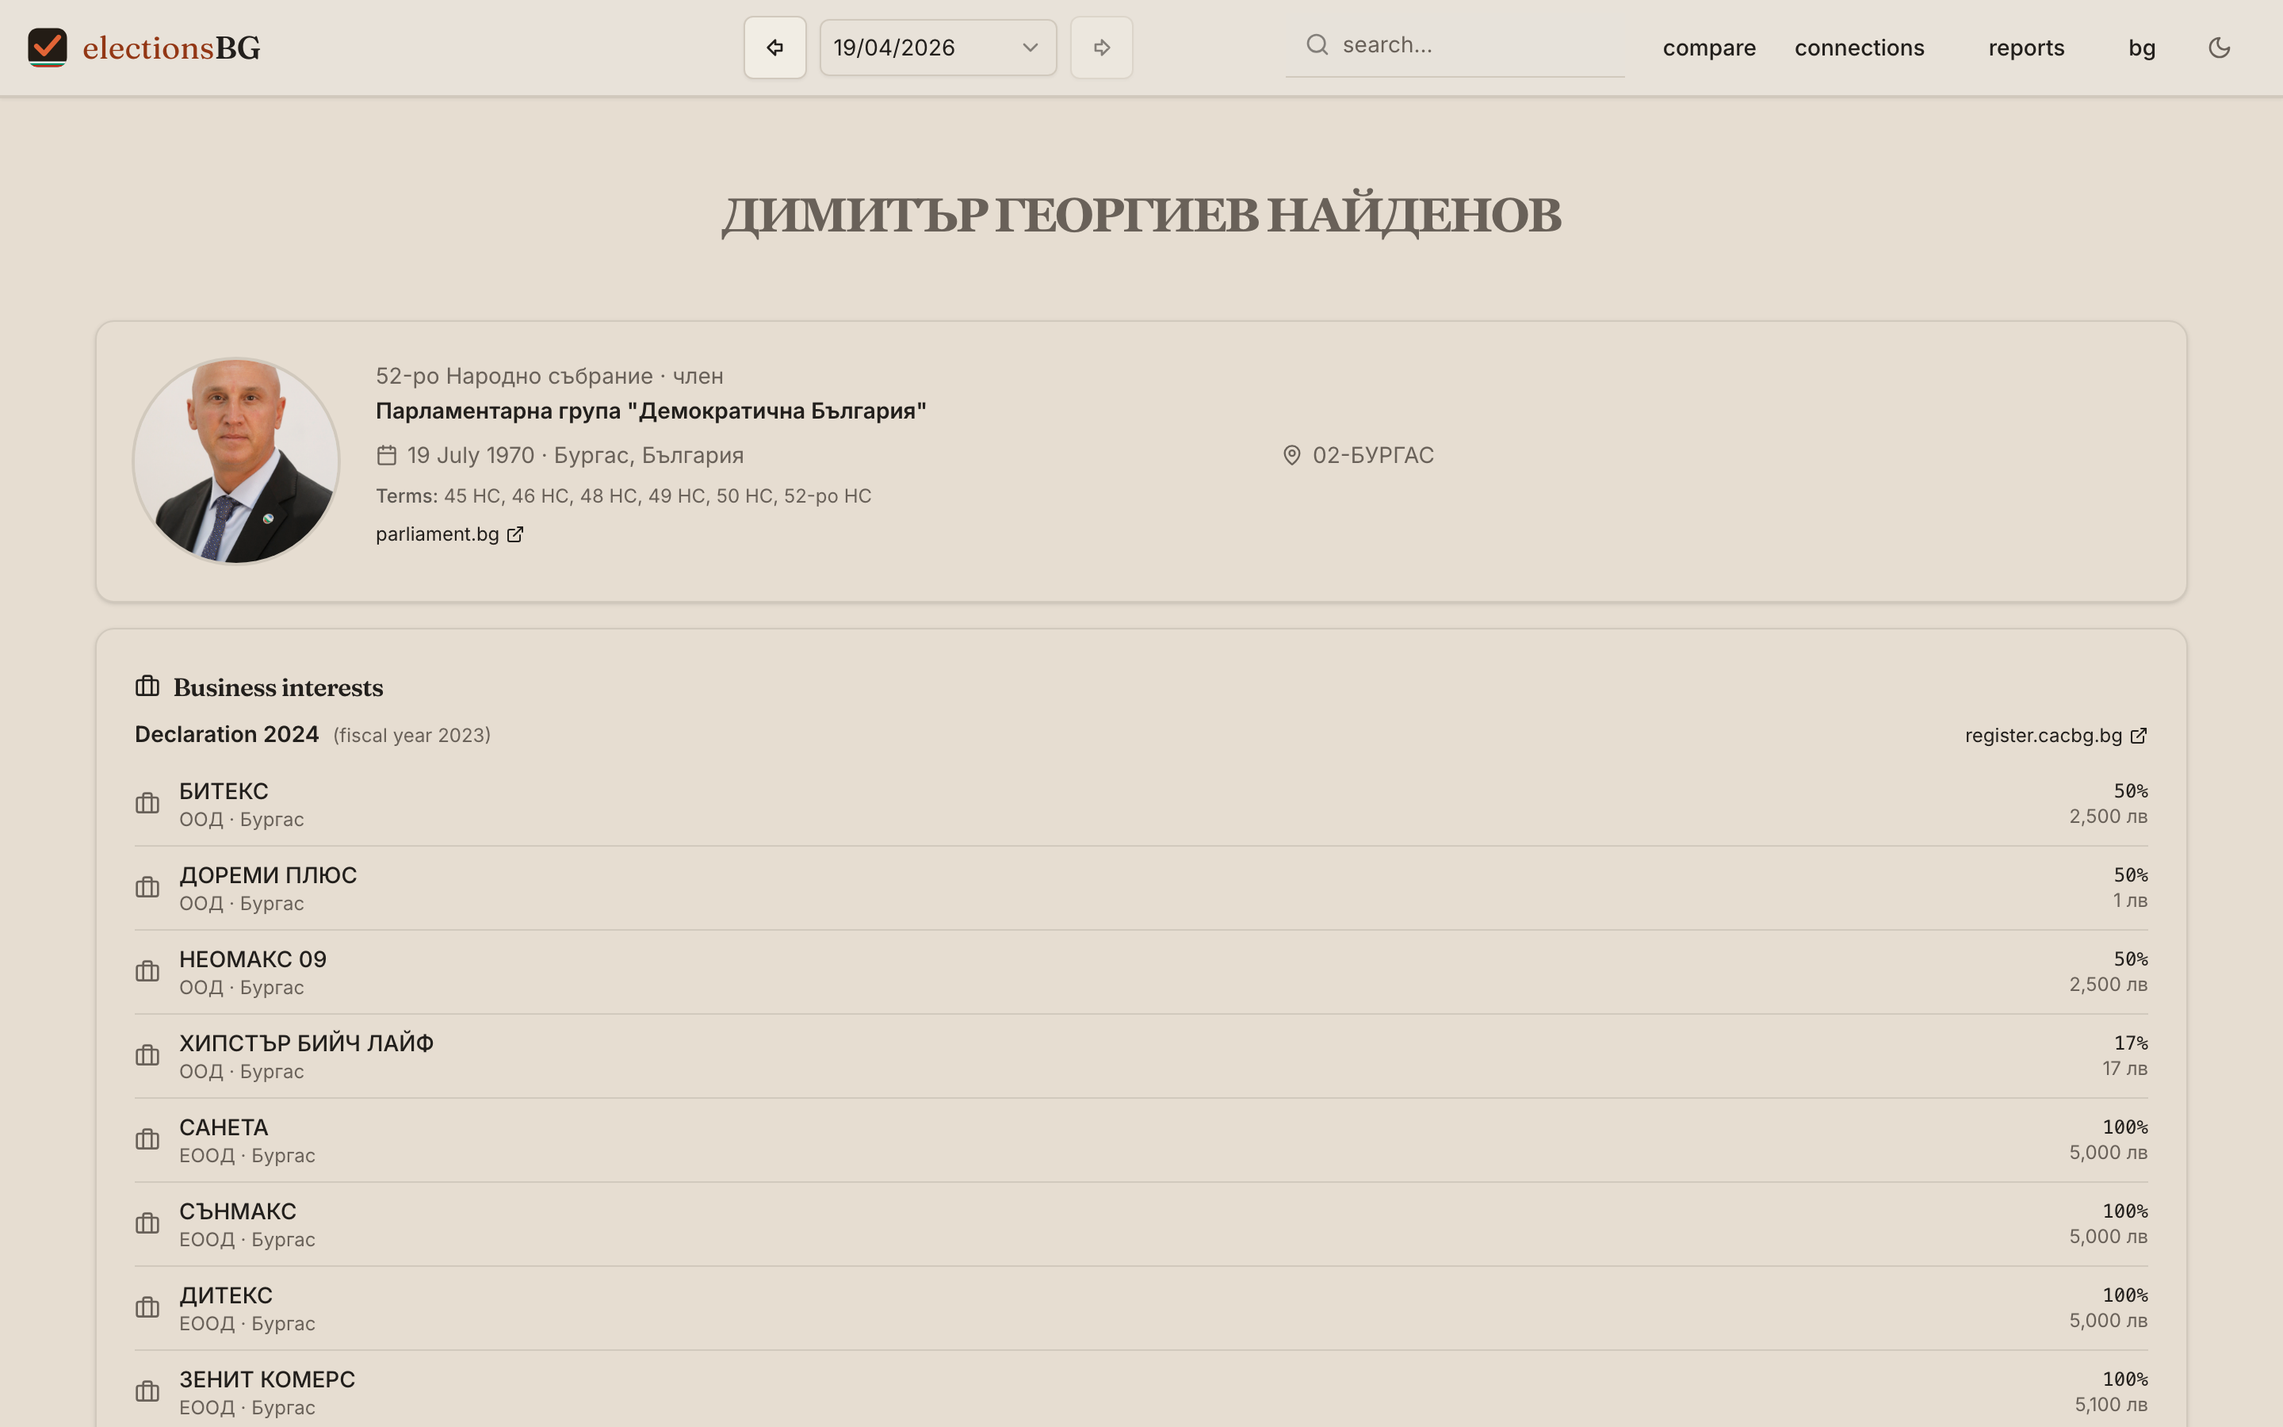
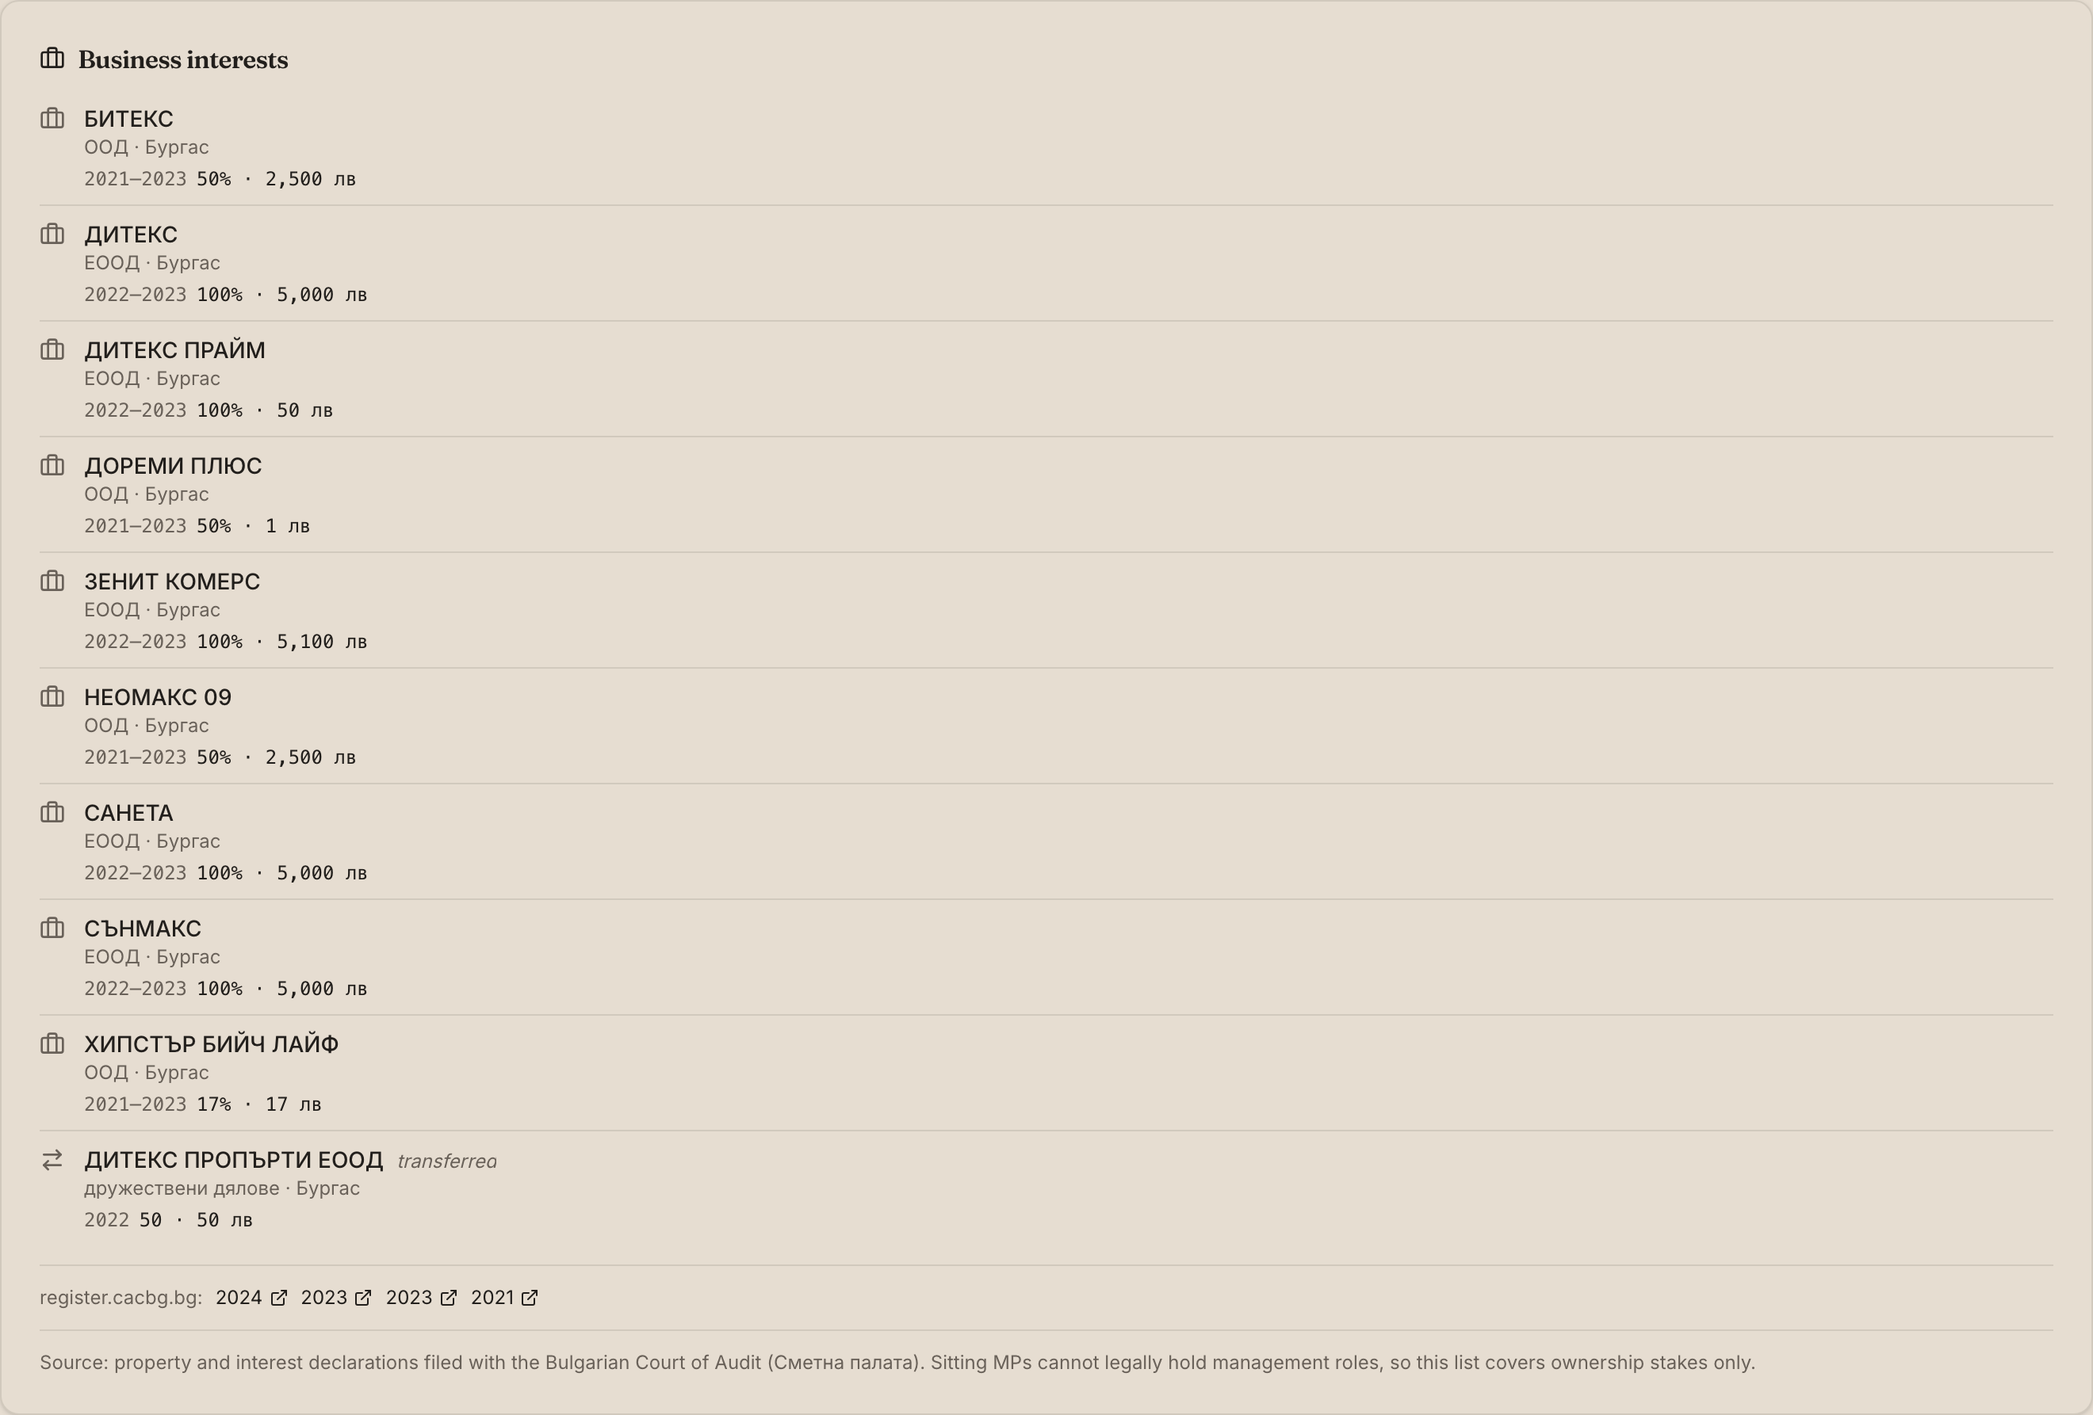
declarations: consolidate business interests by company across years
Previously the MP financial-declarations card rendered one section per
filing, repeating the same companies across 4+ declarations and producing
a 30+ row block. Now stakes are grouped by company with a year-range
timeline; runs of years with identical share/value collapse into a single
chip, and changes between years are split with an arrow so progression is
visible at a glance. Source XML links move to a compact footer.

Article prose and the candidate-declarations screenshot are updated to
match, and a stale СУНМАКС → СЪНМАКС typo in the same paragraph is fixed.

diff --git a/src/screens/components/candidates/MpFinancialDeclarations.tsx b/src/screens/components/candidates/MpFinancialDeclarations.tsx
@@ -1,4 +1,4 @@
-import { FC } from "react";
+import { FC, Fragment, useMemo } from "react";
 import { Link } from "react-router-dom";
 import { useTranslation } from "react-i18next";
 import { Briefcase, ExternalLink, ArrowRightLeft } from "lucide-react";
@@ -17,97 +17,216 @@ const formatBgn = (n: number | null, lang: string): string => {
   }
 };
 
-const StakeRow: FC<{
-  stake: MpOwnershipStake;
-  declarantName: string;
-  lang: string;
-}> = ({ stake, declarantName, lang }) => {
-  const Icon = stake.table === "11" ? ArrowRightLeft : Briefcase;
-  const slug = stake.companySlug ?? null;
-  const name = stake.companyName ?? "—";
-  const holder = stake.holderName?.trim();
-  // Show holder only when it's not the declarant (i.e. spouse / family member)
-  const heldByOther =
-    holder && holder.toLowerCase() !== declarantName.trim().toLowerCase();
+type StakeYear = {
+  year: number;
+  fromFiscal: boolean;
+  shareSize: string | null;
+  valueBgn: number | null;
+};
+
+type StakeRange = {
+  fromYear: number;
+  toYear: number;
+  fromFiscal: boolean;
+  shareSize: string | null;
+  valueBgn: number | null;
+};
+
+type ConsolidatedStake = {
+  key: string;
+  table: "10" | "11";
+  companyName: string;
+  companySlug: string | null;
+  itemType: string | null;
+  registeredOffice: string | null;
+  holderName: string | null;
+  heldByOther: boolean;
+  ranges: StakeRange[];
+  latestYear: number;
+};
+
+const yearKey = (decl: MpDeclaration): { year: number; fromFiscal: boolean } =>
+  decl.fiscalYear != null
+    ? { year: decl.fiscalYear, fromFiscal: true }
+    : { year: decl.declarationYear, fromFiscal: false };
+
+const groupKey = (s: MpOwnershipStake): string => {
+  const company = (s.companySlug ?? s.companyName ?? "").trim().toLowerCase();
+  const holder = (s.holderName ?? "").trim().toLowerCase();
+  return `${s.table}|${company}|${holder}`;
+};
+
+const collapseRanges = (entries: StakeYear[]): StakeRange[] => {
+  if (entries.length === 0) return [];
+  const sorted = [...entries].sort((a, b) => a.year - b.year);
+  const ranges: StakeRange[] = [];
+  for (const e of sorted) {
+    const last = ranges[ranges.length - 1];
+    const sameValues =
+      last &&
+      last.shareSize === e.shareSize &&
+      last.valueBgn === e.valueBgn &&
+      // only collapse contiguous or duplicate years (gaps break the range)
+      e.year - last.toYear <= 1;
+    if (sameValues) {
+      last.toYear = Math.max(last.toYear, e.year);
+    } else {
+      ranges.push({
+        fromYear: e.year,
+        toYear: e.year,
+        fromFiscal: e.fromFiscal,
+        shareSize: e.shareSize,
+        valueBgn: e.valueBgn,
+      });
+    }
+  }
+  return ranges;
+};
+
+const consolidate = (declarations: MpDeclaration[]): ConsolidatedStake[] => {
+  // Sort declarations newest first so the "most recent record per year" wins
+  // when two declarations cover the same fiscal year.
+  const decls = [...declarations].sort(
+    (a, b) => b.declarationYear - a.declarationYear,
+  );
+  const groups = new Map<
+    string,
+    {
+      stakes: Array<{
+        stake: MpOwnershipStake;
+        year: number;
+        fromFiscal: boolean;
+      }>;
+      first: MpOwnershipStake;
+    }
+  >();
+  for (const decl of decls) {
+    const { year, fromFiscal } = yearKey(decl);
+    for (const stake of decl.ownershipStakes) {
+      const k = groupKey(stake);
+      let g = groups.get(k);
+      if (!g) {
+        g = { stakes: [], first: stake };
+        groups.set(k, g);
+      }
+      g.stakes.push({ stake, year, fromFiscal });
+    }
+  }
+  const result: ConsolidatedStake[] = [];
+  for (const [key, g] of groups) {
+    // Dedupe by year — first hit wins (decls are newest-first).
+    const byYear = new Map<number, StakeYear>();
+    for (const { stake, year, fromFiscal } of g.stakes) {
+      if (byYear.has(year)) continue;
+      byYear.set(year, {
+        year,
+        fromFiscal,
+        shareSize: stake.shareSize,
+        valueBgn: stake.valueBgn,
+      });
+    }
+    const ranges = collapseRanges(Array.from(byYear.values()));
+    const declarantName = decls[0]?.declarantName ?? "";
+    const holder = g.first.holderName?.trim() ?? null;
+    const heldByOther = !!(
+      holder && holder.toLowerCase() !== declarantName.trim().toLowerCase()
+    );
+    result.push({
+      key,
+      table: g.first.table,
+      companyName: g.first.companyName ?? "—",
+      companySlug: g.first.companySlug ?? null,
+      itemType: g.first.itemType,
+      registeredOffice: g.first.registeredOffice,
+      holderName: holder,
+      heldByOther,
+      ranges,
+      latestYear: ranges.length ? ranges[ranges.length - 1].toYear : 0,
+    });
+  }
+  // Newest-active first; current holdings (table 10) above transfers (table 11).
+  return result.sort((a, b) => {
+    if (a.table !== b.table) return a.table === "10" ? -1 : 1;
+    if (b.latestYear !== a.latestYear) return b.latestYear - a.latestYear;
+    return a.companyName.localeCompare(b.companyName);
+  });
+};
+
+const RangeLabel: FC<{ r: StakeRange; lang: string }> = ({ r, lang }) => {
+  const yearLabel =
+    r.fromYear === r.toYear ? `${r.fromYear}` : `${r.fromYear}–${r.toYear}`;
+  const parts: string[] = [];
+  if (r.shareSize) parts.push(r.shareSize);
+  if (r.valueBgn != null) parts.push(`${formatBgn(r.valueBgn, lang)} лв`);
   return (
-    <div className="grid grid-cols-[auto_1fr_auto] gap-3 items-center py-2 border-b last:border-b-0">
-      <Icon className="h-4 w-4 text-muted-foreground" />
-      <div className="min-w-0">
-        <div className="text-sm font-medium truncate">
-          {slug ? (
-            <Link
-              to={`/mp/company/${encodeURIComponent(slug)}`}
-              className="hover:underline"
-            >
-              {name}
-            </Link>
-          ) : (
-            name
-          )}
-        </div>
-        <div className="text-xs text-muted-foreground truncate">
-          {[stake.itemType, stake.registeredOffice]
-            .filter(Boolean)
-            .join(" · ") || "—"}
-        </div>
-        {heldByOther && (
-          <div className="text-xs text-muted-foreground italic truncate">
-            {holder}
-          </div>
-        )}
-      </div>
-      <div className="text-right text-sm">
-        {stake.shareSize && (
-          <div className="font-mono text-xs">{stake.shareSize}</div>
-        )}
-        {stake.valueBgn != null && (
-          <div className="text-xs text-muted-foreground">
-            {formatBgn(stake.valueBgn, lang)} лв
-          </div>
-        )}
-      </div>
-    </div>
+    <span className="font-mono">
+      <span className="text-muted-foreground">{yearLabel}</span>
+      {parts.length > 0 && <span className="ml-1.5">{parts.join(" · ")}</span>}
+    </span>
   );
 };
 
-const DeclarationCard: FC<{ decl: MpDeclaration; lang: string }> = ({
-  decl,
+const StakeRow: FC<{ stake: ConsolidatedStake; lang: string }> = ({
+  stake,
   lang,
 }) => {
   const { t } = useTranslation();
-  const stakes = decl.ownershipStakes;
-  if (stakes.length === 0) return null;
+  const Icon = stake.table === "11" ? ArrowRightLeft : Briefcase;
+  const slug = stake.companySlug;
+  const subtitle = [stake.itemType, stake.registeredOffice]
+    .filter(Boolean)
+    .join(" · ");
 
   return (
-    <div className="mb-4">
-      <div className="flex items-baseline justify-between mb-2">
-        <div className="text-sm font-semibold">
-          {t("declaration_year") || "Declaration"} {decl.declarationYear}
-          {decl.fiscalYear != null && (
-            <span className="text-xs text-muted-foreground font-normal ml-2">
-              ({t("fiscal_year") || "fiscal year"} {decl.fiscalYear})
-            </span>
-          )}
+    <div className="grid grid-cols-[auto_1fr] gap-3 items-start py-2 border-b last:border-b-0">
+      <Icon className="h-4 w-4 text-muted-foreground mt-0.5" />
+      <div className="min-w-0">
+        <div className="flex items-baseline justify-between gap-3">
+          <div className="text-sm font-medium truncate">
+            {slug ? (
+              <Link
+                to={`/mp/company/${encodeURIComponent(slug)}`}
+                className="hover:underline"
+              >
+                {stake.companyName}
+              </Link>
+            ) : (
+              stake.companyName
+            )}
+            {stake.table === "11" && (
+              <span className="ml-2 text-xs font-normal text-muted-foreground italic">
+                {t("stake_transferred") || "transferred"}
+              </span>
+            )}
+          </div>
         </div>
-        <a
-          href={decl.sourceUrl}
-          target="_blank"
-          rel="noreferrer"
-          className="inline-flex items-center gap-1 text-xs text-primary hover:underline"
-        >
-          register.cacbg.bg
-          <ExternalLink className="h-3 w-3" />
-        </a>
-      </div>
-      <div>
-        {stakes.map((s, i) => (
-          <StakeRow
-            key={i}
-            stake={s}
-            declarantName={decl.declarantName}
-            lang={lang}
-          />
-        ))}
+        {subtitle && (
+          <div className="text-xs text-muted-foreground truncate">
+            {subtitle}
+          </div>
+        )}
+        {stake.heldByOther && stake.holderName && (
+          <div className="text-xs text-muted-foreground italic truncate">
+            {stake.holderName}
+          </div>
+        )}
+        {stake.ranges.length > 0 && (
+          <div className="mt-1 flex flex-wrap items-center gap-x-2 gap-y-1 text-xs">
+            {stake.ranges.map((r, i) => (
+              <Fragment key={i}>
+                {i > 0 && (
+                  <span
+                    aria-hidden
+                    className="text-muted-foreground/60 select-none"
+                  >
+                    →
+                  </span>
+                )}
+                <RangeLabel r={r} lang={lang} />
+              </Fragment>
+            ))}
+          </div>
+        )}
       </div>
     </div>
   );
@@ -117,8 +236,20 @@ export const MpFinancialDeclarations: FC<{ name: string }> = ({ name }) => {
   const { t, i18n } = useTranslation();
   const { declarations } = useMpDeclarations(name);
 
-  const withStakes = declarations.filter((d) => d.ownershipStakes.length > 0);
-  if (withStakes.length === 0) return null;
+  const consolidated = useMemo(
+    () => consolidate(declarations.filter((d) => d.ownershipStakes.length > 0)),
+    [declarations],
+  );
+
+  const sourceDecls = useMemo(
+    () =>
+      [...declarations]
+        .filter((d) => d.ownershipStakes.length > 0)
+        .sort((a, b) => b.declarationYear - a.declarationYear),
+    [declarations],
+  );
+
+  if (consolidated.length === 0) return null;
 
   return (
     <Card className="my-4">
@@ -129,9 +260,33 @@ export const MpFinancialDeclarations: FC<{ name: string }> = ({ name }) => {
         </CardTitle>
       </CardHeader>
       <CardContent>
-        {withStakes.map((d, i) => (
-          <DeclarationCard key={i} decl={d} lang={i18n.language} />
-        ))}
+        <div>
+          {consolidated.map((s) => (
+            <StakeRow key={s.key} stake={s} lang={i18n.language} />
+          ))}
+        </div>
+        {sourceDecls.length > 0 && (
+          <div className="text-xs text-muted-foreground mt-3 pt-3 border-t flex flex-wrap items-center gap-x-2 gap-y-1">
+            <span>register.cacbg.bg:</span>
+            {sourceDecls.map((d, i) => (
+              <a
+                key={i}
+                href={d.sourceUrl}
+                target="_blank"
+                rel="noreferrer"
+                className="inline-flex items-center gap-1 text-primary hover:underline"
+                title={
+                  d.fiscalYear != null
+                    ? `${t("declaration_year") || "Declaration"} ${d.declarationYear} · ${t("fiscal_year") || "fiscal year"} ${d.fiscalYear}`
+                    : `${t("declaration_year") || "Declaration"} ${d.declarationYear}`
+                }
+              >
+                {d.declarationYear}
+                <ExternalLink className="h-3 w-3" />
+              </a>
+            ))}
+          </div>
+        )}
         <div className="text-xs text-muted-foreground mt-3 pt-3 border-t">
           {t("source_declarations") ||
             "Source: property/interest declarations filed with the Bulgarian Court of Audit (Сметна палата). Sitting MPs cannot legally hold management roles, so this list covers ownership stakes only."}

diff --git a/public/articles/2026-05-04-mp-connections-en.md b/public/articles/2026-05-04-mp-connections-en.md
@@ -67,11 +67,11 @@ Three blocks were added to every MP profile, in this order:
 
 ### Financial declarations
 
-The first block is a year-by-year ledger of declared business interests, grouped by fiscal year. Each row links into the company's dedicated page; the right-hand column is the source XML on register.cacbg.bg so you can verify what was actually filed.
+The first block is a per-company summary of declared business interests. Each row links into the company's dedicated page and shows the years the stake was held with its share size and value; if those values changed between filings, the entries are broken out with an arrow between them so the progression is visible. Source XML links for every declaration sit in a footer at the bottom of the card so you can verify what was actually filed.
 
 ![Financial declarations on a candidate page](/articles/images/connections/03-candidate-declarations.png)
 
-The example here is **[Димитър Найденов](/candidate/%D0%94%D0%B8%D0%BC%D0%B8%D1%82%D1%8A%D1%80%20%D0%93%D0%B5%D0%BE%D1%80%D0%B3%D0%B8%D0%B5%D0%B2%20%D0%9D%D0%B0%D0%B9%D0%B4%D0%B5%D0%BD%D0%BE%D0%B2)** — the most-connected currently-sitting MP, with 14 high-confidence ties. His 2024 filing alone lists nine Burgas-based ОООд and ЕООД companies in the textile and fashion business (БИТЕКС, ДОРЕМИ ПЛЮС, НЕОМАКС 09, СУНМАКС, ДИТЕКС, ЗЕНИТ КОМЕРС, …) with stakes ranging from 17% to 100%.
+The example here is **[Димитър Найденов](/candidate/%D0%94%D0%B8%D0%BC%D0%B8%D1%82%D1%8A%D1%80%20%D0%93%D0%B5%D0%BE%D1%80%D0%B3%D0%B8%D0%B5%D0%B2%20%D0%9D%D0%B0%D0%B9%D0%B4%D0%B5%D0%BD%D0%BE%D0%B2)** — the most-connected currently-sitting MP, with 14 high-confidence ties. His 2024 filing alone lists nine Burgas-based ОООд and ЕООД companies in the textile and fashion business (БИТЕКС, ДОРЕМИ ПЛЮС, НЕОМАКС 09, СЪНМАКС, ДИТЕКС, ЗЕНИТ КОМЕРС, …) with stakes ranging from 17% to 100%.
 
 ### Management roles
 
